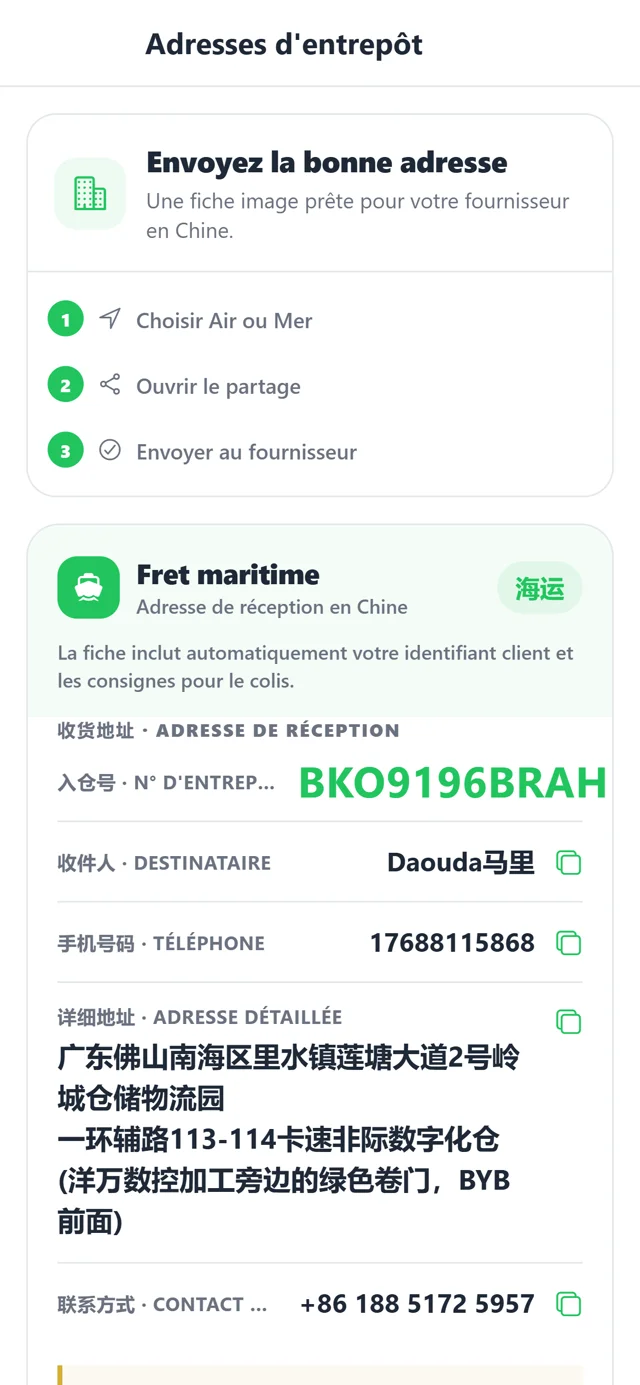
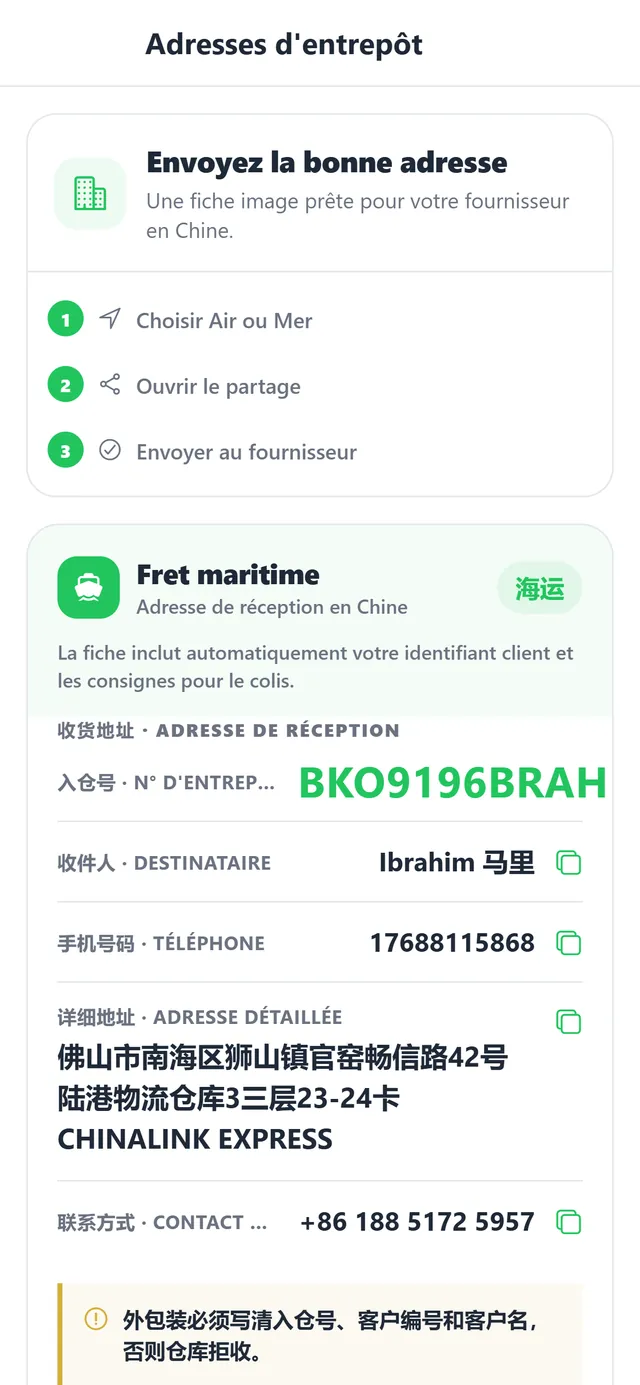
fix(application): real China warehouse address; add Commandes and Points steps
The address screen, the supplier sheet and the showcase's address phone
were captured with an old Foshan (Lianto) address. Re-captured with the
active AIR/SEA addresses as stored in production, and the sheet re-drawn
by the backend's own renderer. The guide gains two steps for the
Commandes and Points tabs (real screens: demo orders, live reward
catalogue), in fr/en/zh/ar.

diff --git a/src/views/landing/components/AppGuideLine.tsx b/src/views/landing/components/AppGuideLine.tsx
@@ -24,6 +24,8 @@ const GUIDE_STEPS = [
   { key: 'custody', src: 'chaine' },
   { key: 'shipments', src: 'expeditions' },
   { key: 'container', src: 'carte' },
+  { key: 'orders', src: 'commandes' },
+  { key: 'points', src: 'points' },
   { key: 'notifications', src: 'notifications' },
 ] as const;
 
